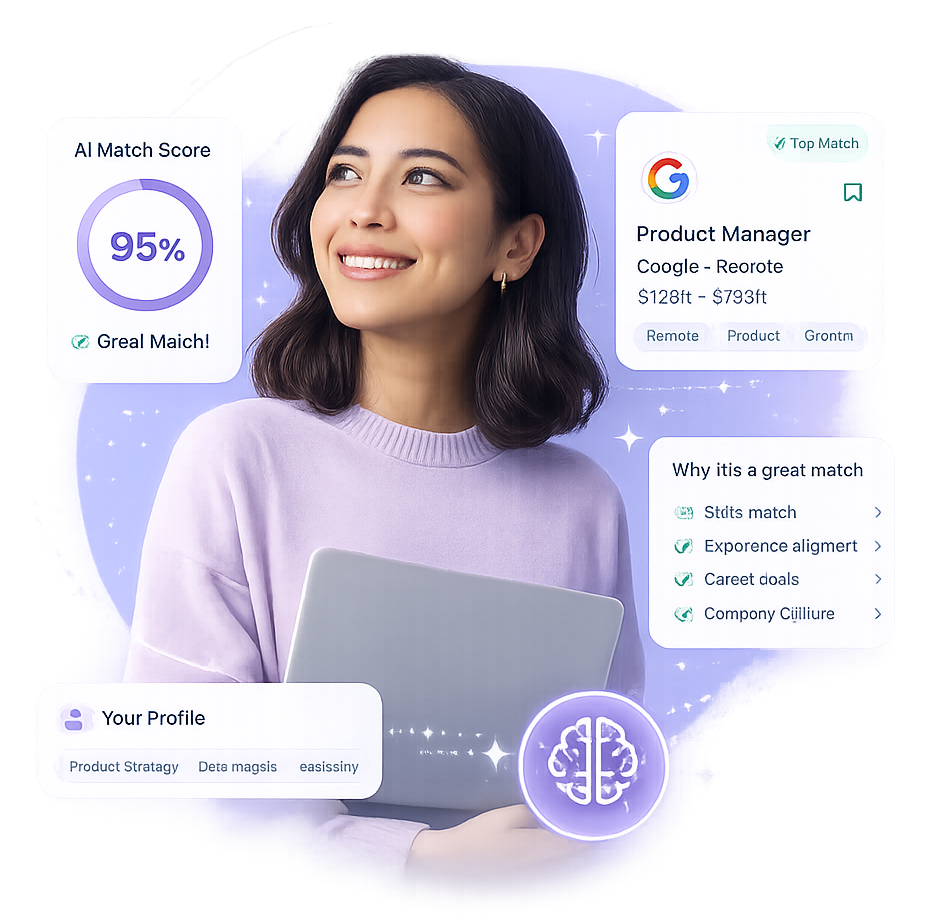
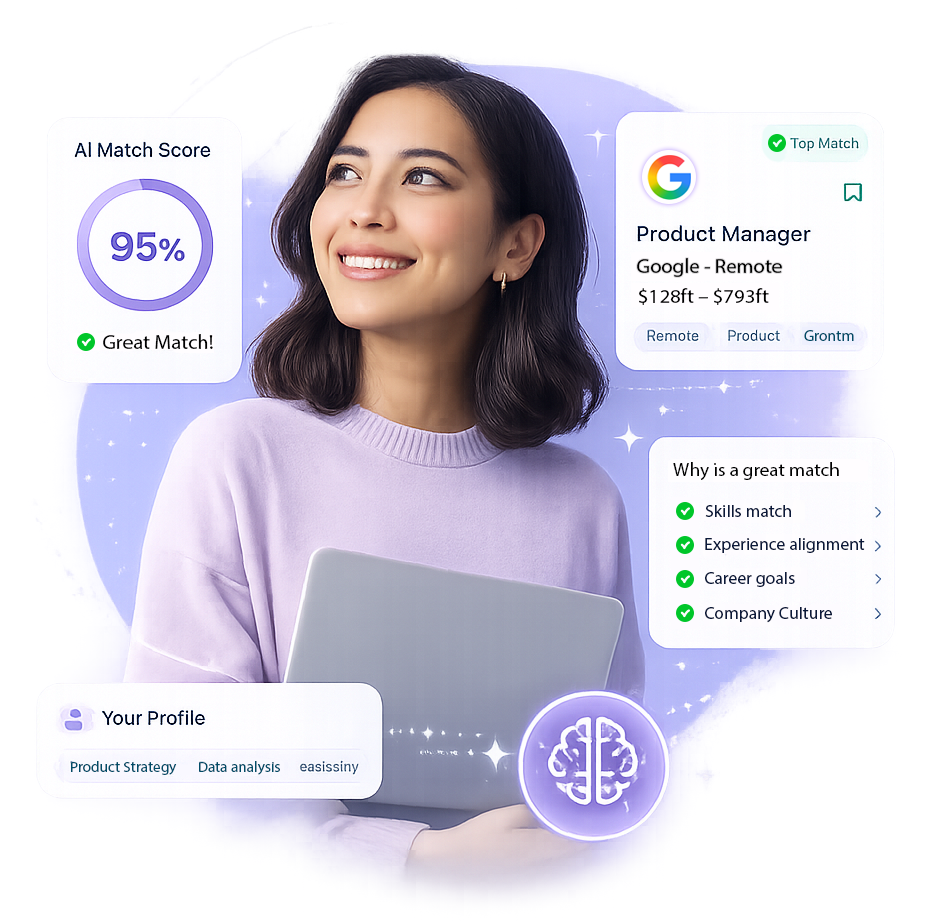
Make some changes in Hero section

diff --git a/Frontend/src/components/heroSection.css b/Frontend/src/components/heroSection.css
@@ -1,4 +1,4 @@
-@import url('https://fonts.googleapis.com/css2?family=Plus+Jakarta+Sans:wght@700;800&display=swap');
+@import url("https://fonts.googleapis.com/css2?family=Plus+Jakarta+Sans:wght@700;800&display=swap");
 
 .hero {
   min-height: 100vh;
@@ -53,11 +53,32 @@
 }
 
 .hero-left h1 span {
-  background: linear-gradient(90deg, #4f46e5, #9333ea);
-  -webkit-background-clip: text; 
-  background-clip: text;        
+  background: linear-gradient(
+    120deg,
+    #4f46e5,
+    #6366f1,
+    #7c3aed,
+    #9333ea,
+    #4f46e5
+  );
+  background-size: 300% 300%;
+  -webkit-background-clip: text;
+  background-clip: text;
   -webkit-text-fill-color: transparent;
   color: transparent;
+  animation: gradientFlow 6s ease infinite;
+}
+
+@keyframes gradientFlow {
+  0% {
+    background-position: 0% 50%;
+  }
+  50% {
+    background-position: 100% 50%;
+  }
+  100% {
+    background-position: 0% 50%;
+  }
 }
 
 .hero-left p {
@@ -117,9 +138,25 @@
   width: 100%;
   max-width: 550px;
   height: auto;
-  top: 0;
-  margin-left: 0;
   display: block;
+
+  filter: drop-shadow(0 20px 40px rgba(79, 70, 229, 0.25));
+  animation: floatGlow 5s ease-in-out infinite;
+}
+
+@keyframes floatGlow {
+  0% {
+    transform: translateY(0);
+    filter: drop-shadow(0 20px 40px rgba(79, 70, 229, 0.20));
+  }
+  50% {
+    transform: translateY(-18px);
+    filter: drop-shadow(0 35px 60px rgba(147, 51, 234, 0.35));
+  }
+  100% {
+    transform: translateY(0);
+    filter: drop-shadow(0 20px 40px rgba(79, 70, 229, 0.20));
+  }
 }
 
 .button-row {
